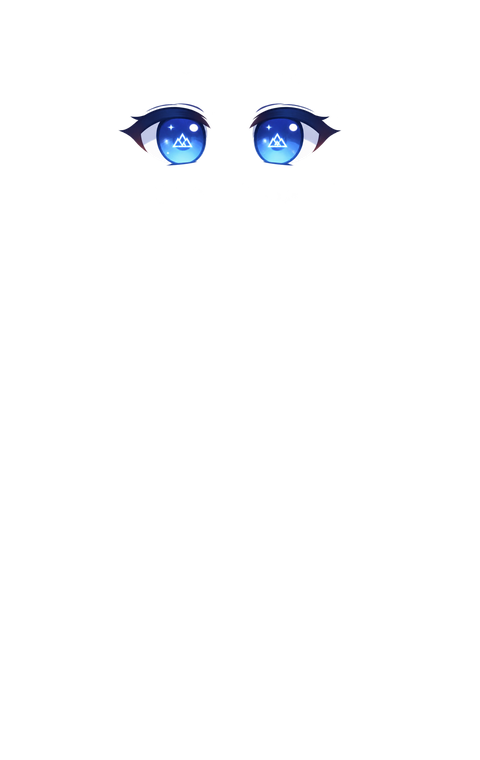
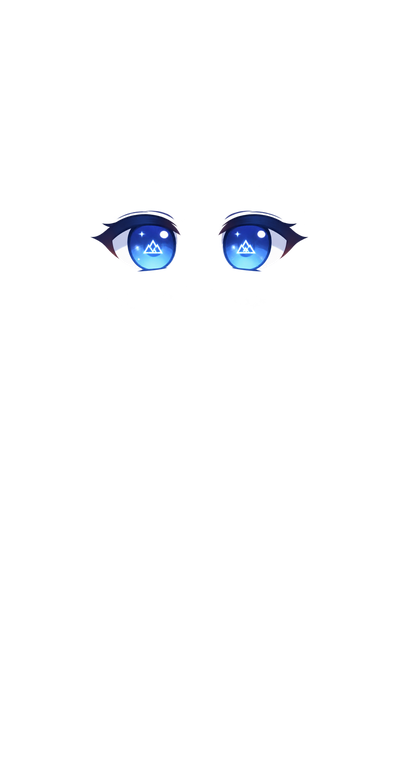
fix(角色): 重新烘焙 8 层——头部 k 0.55→0.44、身体放大 1.12/1.10、下巴压入衣领 24/22px，统一 400×760 画布，解决头太大/颈断/顶部裁切

diff --git a/sdk/xiaole-config.js b/sdk/xiaole-config.js
@@ -126,7 +126,7 @@
       style: 'frames',
       // 8 层已按相对坐标烘焙对齐（assets/layers-aligned/<性别>/），画布比例 480×760
       layersDir: 'assets/layers-aligned',
-      layersCanvas: { w: 480, h: 760 },
+      layersCanvas: { w: 400, h: 760 },
       // 分层里默认不显示的部分（07 大蝴蝶结会挡住脸，想戴就删掉这条）
       layerHidden: ['07_accessory'],
       // 是否启用原始 8 层（取景未对齐，需自己配 layerTransform），一般不要开

diff --git a/README.md b/README.md
@@ -103,7 +103,8 @@ xiaole/
 ├── presets/                 产品专属提示词（read / game / default）
 ├── assets/
 │   ├── static/              girl-static.png / boy-static.png（整体图兜底）
-│   └── layers/              分层素材（放齐即自动启用分层动画）
+│   ├── layers/              原始 8 层（512×512，取景不一致）
+│   └── layers-aligned/      已烘焙对齐的 8 层（400×760，分层画法用这份）
 ├── index.html               独立主页（整页对话，无悬浮角色）
 ├── sdk/xiaole-page.js       主页对话逻辑（复用 chat / image / utils）
 ├── sdk/xiaole-page.css      主页样式
@@ -136,6 +137,7 @@ python3 local-proxy.py 8899
 ```
 
 - 统一 512×512（或更高同比例）、透明 PNG、所有图层同一姿势同一中心点。
+- 如果你的层也是「头肩特写」，先烘焙对齐再放进 `assets/layers-aligned/`：头部层等比缩放到 `k≈0.44`、以脸部包围盒中心横向对齐、以脸层下巴对齐衣领（压进去 20px 左右）即可自然衔接。
 - 检测到 ≥5 层即进入 `layered` 模式：呼吸、眼珠跟随鼠标、性别切换淡入淡出。
 - 缺失则自动降级 `static` 模式（`assets/static/girl-static.png`），仍可正常使用。
 
@@ -175,7 +177,7 @@ http://127.0.0.1:8899/index.html?api=http://127.0.0.1:8899/api
 - 聊天框内置生图面板（`画` 按钮）：次数提示、生成中状态、结果图 + 保存链接
 - 站位可配置：`data-anchor="left"` 左下角 / 默认右下角，聊天框与右键菜单一起镜像
 - **角色多部件合成**：柔光 + 地面阴影 + 立绘舞台 + 表情帧（idle / blink / happy）；平时随机眨眼，发消息或收到回复时开心一下，全部由 `config.character.frames` 驱动
-- 分层素材（`assets/layers/*`）暂未启用：现有 8 层是「头肩特写」，与全身立绘比例差约 3 倍，硬拼会变成大头；`useLayers` 通道保留，拿到同画布同姿势的全套图层后改 `true` 即可
+- **8 层合成画法（可选）**：`00` 那 8 张原始层是「头肩特写 + 全身无头」两套取景，直接叠会变成大头。已按相对坐标离线烘焙成 `assets/layers-aligned/{girl,boy}/`（统一 400×760 画布）：头部 7 层缩放 `k=0.44` 并平移到同一中心，身体 `02_body` 放大 `S=1.12`（女）/ `1.10`（男）后下移对齐，下巴压进衣领 `24px/22px`。切 `style:'layers'` 或宿主加 `data-char="layers"`、预览 `?char=layers` 即用；分层模式下眨眼=眼珠层压扁淡出，开心=整只上弹 + 腮红提饱和
 - 切会话/删会话时若正在回答：自动中断，并把已输出的半截回答带「（已中断）」留在原会话，不会串到新会话
 - 站点自带 `404.html`（云朵 + 「小」形象 + 回首页/演示页/产品入口）
 
